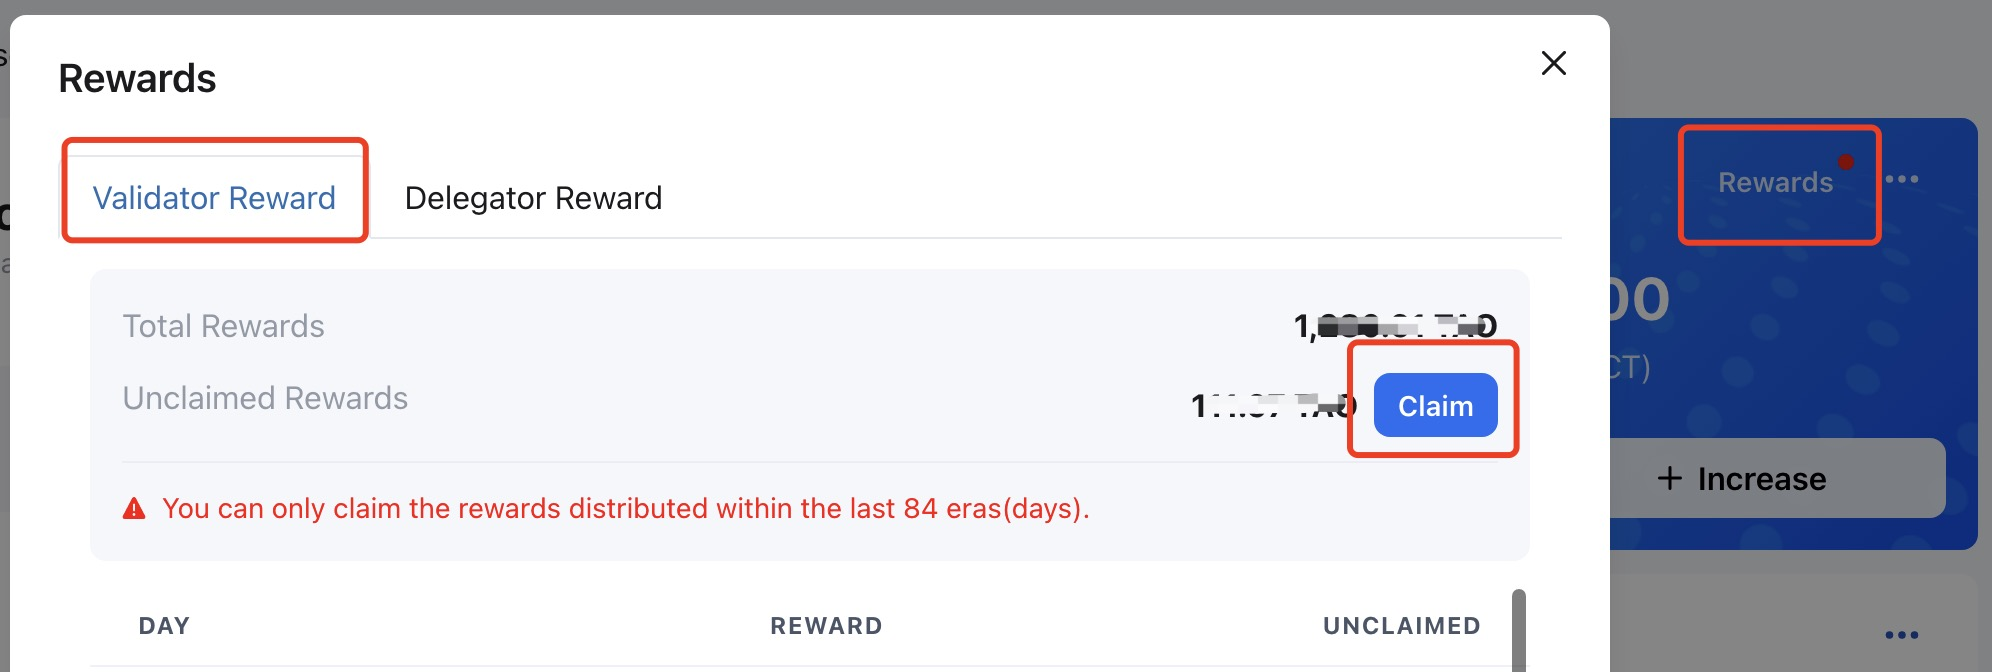
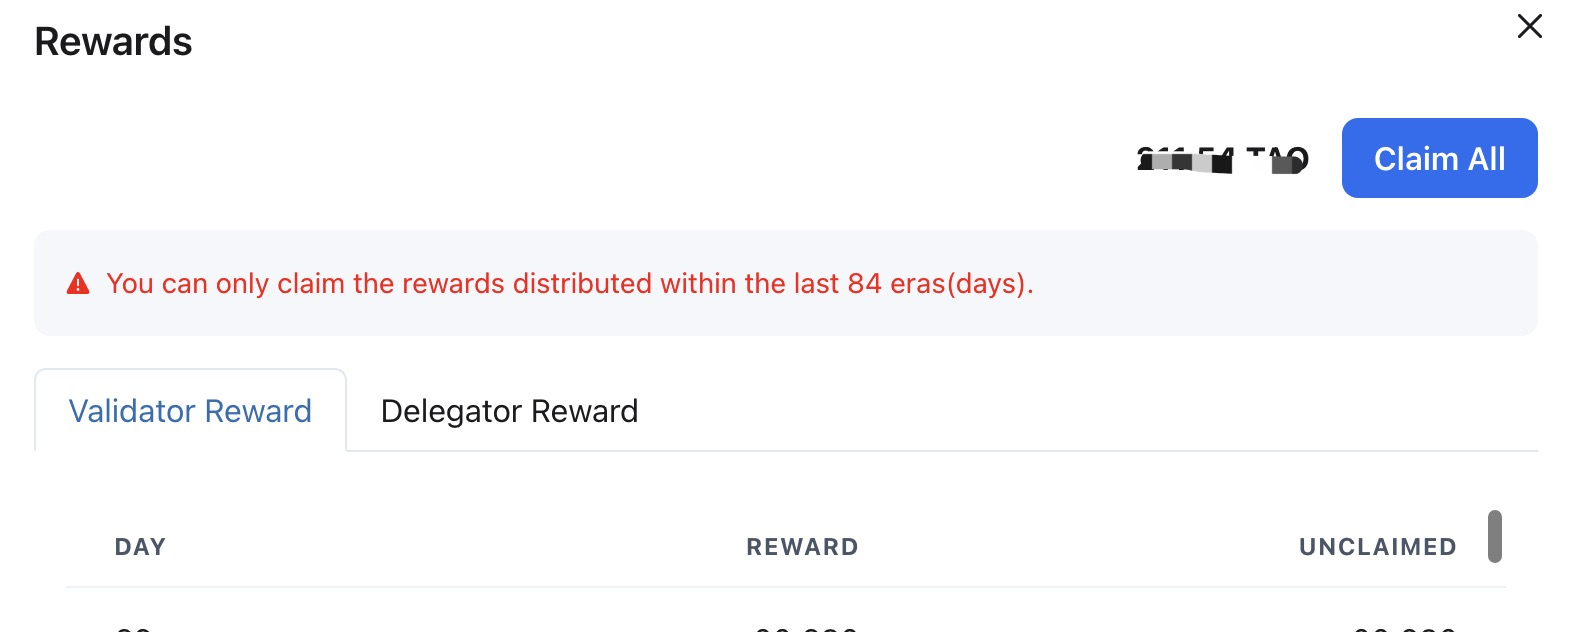
claim rewards

diff --git a/src/maintain/validator-register.md b/src/maintain/validator-register.md
@@ -52,7 +52,9 @@ Check whether the return value is consistent with the Session keys you have set.
 
 ### Claim rewards
 
-After a reward cycle (~1 day), the validator will receive the staking reward, which needs to be claimed manually. In the **My Staking** area, click **Rewards** , then select the `Validator Reward` and click the `Claim` button to claim the reward.
+After a reward cycle (~1 day), the validator will receive the staking reward, which needs to be claimed manually. In the **My Staking** area, click **Rewards** , and then click the `Claim All` button to claim the reward.
+
+![my staking](../images/maintain/my_staking.jpg)
 
 ![validator claim rewards](../images/maintain/validator_claim_rewards.jpg)
 

diff --git a/src/maintain/delegator-operations.md b/src/maintain/delegator-operations.md
@@ -16,7 +16,9 @@ Click `+` or `-` to increase or decrease the delegation amount on the `Validator
 
 ### Claim rewards
 
-After a reward cycle (~1 day), the delegator will obtain the staking rewards, which need to be claimed manually. Click the `Rewards` button on the `Validator Profile` page, then select `Delegator Reward` and click `Claim` to claim the rewards.
+After a reward cycle (~1 day), the delegator will obtain the staking rewards, which need to be claimed manually. In the **My Staking** area, click **Rewards** , and then click the `Claim All` button to claim the reward.
+
+![my staking](../images/maintain/my_staking.jpg)
 
 ![delegator claim reward](../images/maintain/delegator_claim_rewards.jpg)
 

diff --git a/src/cn/maintain/delegator-operations.md b/src/cn/maintain/delegator-operations.md
@@ -16,7 +16,9 @@
 
 ### 领取质押奖励
 
-在委托质押一个奖励周期大约 1 天后，委托人将会获得质押奖励，需要手动领取。在`Validator Profile`页面中，点击`Rewards`按钮，选择`Delegator Reward`，然后点击`Claim`领取质押奖励。
+在委托质押一个奖励周期大约 1 天后，委托人将会获得质押奖励，需要手动领取。在 **My Staking** 区域，点击**Rewards**，然后点击`Claim All`按钮领取奖励。
+
+![my staking](../../images/maintain/my_staking.jpg)
 
 ![delegator claim reward](../../images/maintain/delegator_claim_rewards.jpg)
 

diff --git a/src/cn/maintain/validator-register.md b/src/cn/maintain/validator-register.md
@@ -48,7 +48,9 @@
 
 ### 领取质押奖励
 
-在一个奖励周期大约 1 天后，验证人将会获得质押奖励，需要手动领取。在 **My Staking** 区域，点击**Rewards**，在`Validator Reward`列表页面中，点击`Claim`按钮领取奖励。
+在一个奖励周期大约 1 天后，验证人将会获得质押奖励，需要手动领取。在 **My Staking** 区域，点击**Rewards**，然后点击`Claim All`按钮领取奖励。
+
+![my staking](../../images/maintain/my_staking.jpg)
 
 ![validator claim rewards](../../images/maintain/validator_claim_rewards.jpg)
 
